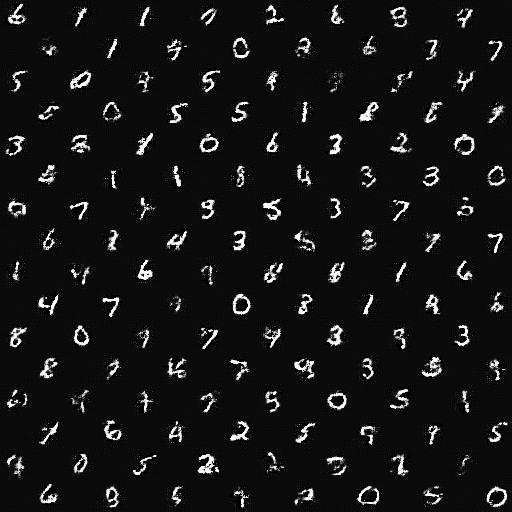
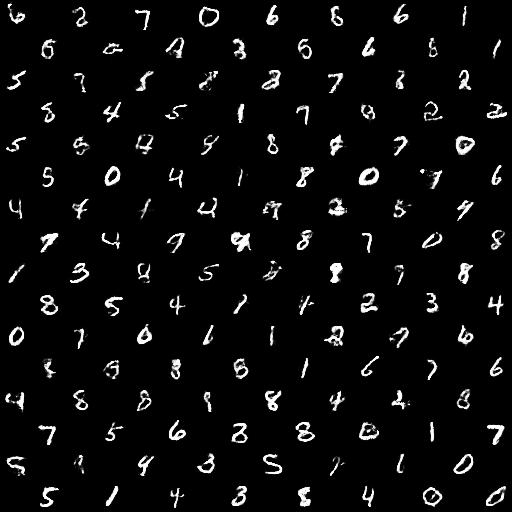
Adding relevant images

diff --git a/elements/dcgan64.py b/elements/dcgan64.py
@@ -216,9 +216,9 @@ epoch = 100
 learning_rate = 1e-2
 batch_size = 64
 embedding_size = 256
-num_class = 10
+num_class = 20
 
-gan = DCGAN(batch_size=batch_size, embedding_size=embedding_size, image_shape=[64,64,1])
+gan = DCGAN(batch_size=batch_size, embedding_size=embedding_size, image_shape=[64,64,1], num_class=num_class)
 
 embedding, vector, real_image, d_loss, g_loss, prob_fake, prob_real = gan.build_model()
 session  = tf.InteractiveSession(config=tf.ConfigProto(log_device_placement=True))
@@ -246,7 +246,7 @@ def generate(batch_size):
 	batch = np.zeros([batch_size,64,64,1])
 	batch[:,2:30,2:30,:] = batch1
 	batch[:,34:62,34:62,:] = batch2
-	return (batch, batch1_labels + batch2_labels)
+	return (batch, np.concatenate([batch1_labels,batch2_labels],axis=1))
 
 def save_visualization(X, nh_nw, save_path='../results/dcgan64/sample.jpg'):
     h,w = X.shape[1], X.shape[2]
